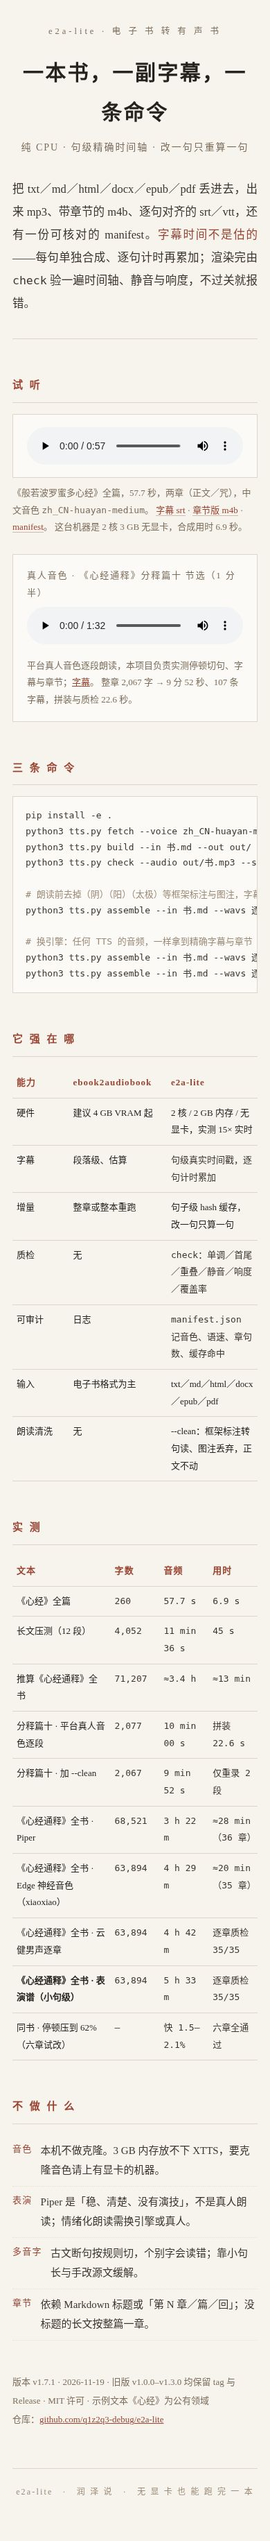
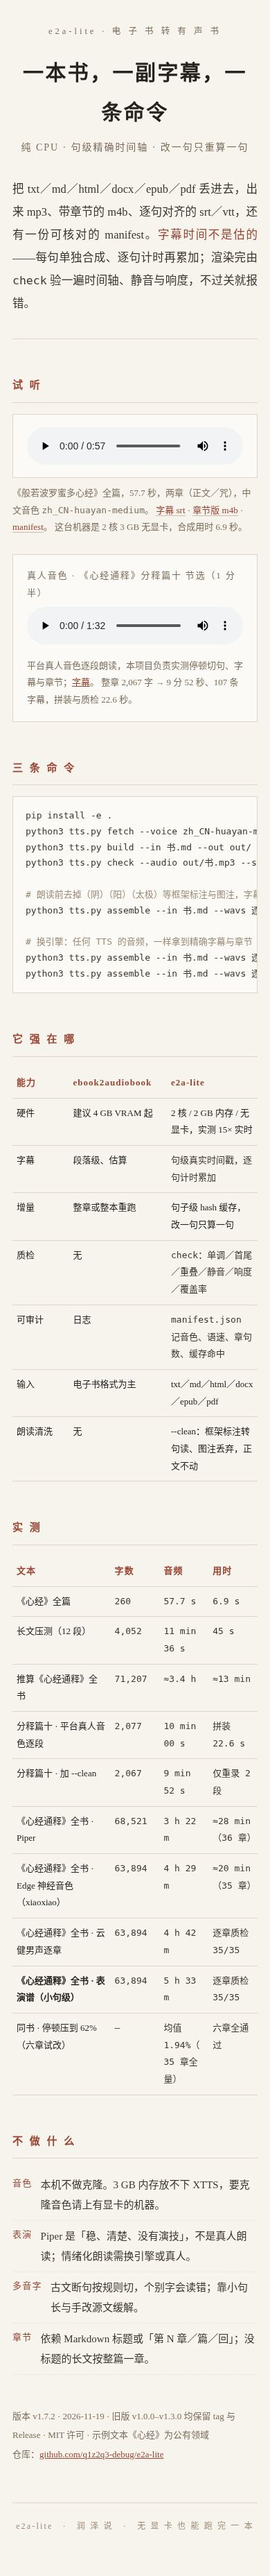
v1.7.2：全量 A/B 完成（35 章，均值 1.94%）

diff --git a/docs/index.html b/docs/index.html
@@ -107,7 +107,7 @@ python3 tts.py assemble --in 书.md --wavs 逐段/ --out out/   <span class="c">
     <tr><td>《心经通释》全书 · Edge 神经音色（xiaoxiao）</td><td class="num">63,894</td><td class="num">4 h 29 m</td><td class="num">≈20 min（35 章）</td></tr>
     <tr><td>《心经通释》全书 · 云健男声逐章</td><td class="num">63,894</td><td class="num">4 h 42 m</td><td class="num">逐章质检 35/35</td></tr>
     <tr><td><b>《心经通释》全书 · 表演谱（小句级）</b></td><td class="num">63,894</td><td class="num">5 h 33 m</td><td class="num">逐章质检 35/35</td></tr>
-    <tr><td>同书 · 停顿压到 62%（六章试改）</td><td class="num">—</td><td class="num">快 1.5–2.1%</td><td class="num">六章全通过</td></tr>
+    <tr><td>同书 · 停顿压到 62%（六章试改）</td><td class="num">—</td><td class="num">均值 1.94%（35 章全量）</td><td class="num">六章全通过</td></tr>
   </table>
 
   <h2>不 做 什 么</h2>
@@ -118,7 +118,7 @@ python3 tts.py assemble --in 书.md --wavs 逐段/ --out out/   <span class="c">
     <li><i>章节</i>依赖 Markdown 标题或「第 N 章／篇／回」；没标题的长文按整篇一章。</li>
   </ul>
 
-  <div class="meta">版本 v1.7.1 · 2026-11-19 · 旧版 v1.0.0–v1.3.0 均保留 tag 与 Release · MIT 许可 · 示例文本《心经》为公有领域<br>
+  <div class="meta">版本 v1.7.2 · 2026-11-19 · 旧版 v1.0.0–v1.3.0 均保留 tag 与 Release · MIT 许可 · 示例文本《心经》为公有领域<br>
     仓库：<a href="https://github.com/q1z2q3-debug/e2a-lite" style="color:#994433">github.com/q1z2q3-debug/e2a-lite</a></div>
 
   <div class="foot">e2a-lite　·　润 泽 说　·　无 显 卡 也 能 跑 完 一 本</div>

diff --git a/scripts/ab_batch.py b/scripts/ab_batch.py
@@ -1,0 +1,104 @@
+#!/usr/bin/env python3
+"""批量 A/B：把未试改的章逐章按「停顿 ×0.62」重渲一遍，记账只报异常。
+
+用法：
+  python3 scripts/ab_batch.py --in 书.md --out 试改批量 --done 心经通释-表演版/分章 --skip "附录一,附录二,...,跋"
+
+产出：每章目录 NN-章名/{章名-结构提速版.mp3,srt,m4b}，以及 ab_summary.json
+"""
+from __future__ import annotations
+
+import argparse
+import json
+import re
+import subprocess
+import sys
+from pathlib import Path
+
+sys.path.insert(0, str(Path(__file__).resolve().parent))
+import perform as pf  # noqa: E402
+import score_chapter as sc  # noqa: E402
+
+ROOT = Path(__file__).resolve().parents[1]
+sys.path.insert(0, str(ROOT))
+import tts  # noqa: E402
+
+
+def probe(p: Path) -> float:
+    return float(subprocess.check_output(["ffprobe", "-v", "error", "-show_entries",
+                                          "format=duration", "-of", "default=nw=1:nk=1",
+                                          str(p)]).decode().strip() or 0)
+
+
+def main() -> int:
+    ap = argparse.ArgumentParser()
+    ap.add_argument("--in", dest="inp", required=True)
+    ap.add_argument("--out", required=True)
+    ap.add_argument("--ref", required=True, help="已交付的分章目录，用于取现版时长")
+    ap.add_argument("--skip", default="", help="已试改的章名关键字，逗号分隔")
+    ap.add_argument("--voice", default="zh-CN-YunjianNeural")
+    ap.add_argument("--jobs", type=int, default=6)
+    args = ap.parse_args()
+
+    out = Path(args.out)
+    out.mkdir(parents=True, exist_ok=True)
+    ref = Path(args.ref)
+    skips = [s.strip() for s in args.skip.split(",") if s.strip()]
+
+    chs = tts.clean_chapters(tts.split_chapters(tts.extract_text(Path(args.inp)), "心经通释"))
+    chs = [c for c in chs if "编辑札记" not in c["title"] and c["title"].strip() != "心经通释"]
+
+    base_role = dict(sc.ROLE)
+    sc.ROLE = {k: (base_role[k][0], base_role[k][1], round(base_role[k][2] * 0.62, 2)) for k in base_role}
+
+    rows = []
+    for i, ch in enumerate(chs, 1):
+        title = ch["title"].strip()
+        if any(s in title for s in skips):
+            continue
+        safe = re.sub(r"[^\w\u4e00-\u9fff·]+", "-", title).strip("-")[:36]
+        name = f"{i:02d}-{safe}"
+        cdir = out / name
+        cdir.mkdir(exist_ok=True)
+        mp3 = cdir / f"{safe}-结构提速版.mp3"
+        srt = cdir / f"{safe}-结构提速版.srt"
+
+        ref_files = sorted(ref.glob(f"{i:02d}-*.mp3"))
+        ref_dur = probe(ref_files[0]) if ref_files else 0.0
+
+        if not mp3.exists():
+            segs = sc.build_score(tts.split_sentences(ch["lines"], 70))
+            score_f = cdir / "score.json"
+            score_f.write_text(json.dumps(segs, ensure_ascii=False), encoding="utf-8")
+            rc = subprocess.run([sys.executable, str(Path(__file__).resolve().parent / "perform.py"),
+                                 "--score", str(score_f), "--voice", args.voice,
+                                 "--out", str(cdir), "--title", f"{safe}-结构提速版",
+                                 "--jobs", str(args.jobs)], capture_output=True, text=True)
+            for junk in (cdir / "_pieces",):
+                if junk.exists():
+                    subprocess.run(["rm", "-rf", str(junk)])
+            if rc.returncode != 0:
+                print(f"[{i}] {name} 渲染失败：{rc.stderr[-160:]}", flush=True)
+                rows.append({"章": title, "现版s": round(ref_dur, 1), "提速版s": None, "结论": "渲染失败"})
+                continue
+
+        new_dur = probe(mp3)
+        chk = subprocess.run([sys.executable, str(ROOT / "tts.py"), "check",
+                              "--audio", str(mp3), "--srt", str(srt)], capture_output=True, text=True)
+        ok = "全部通过" in chk.stdout and chk.returncode == 0
+        delta = (ref_dur - new_dur) / ref_dur * 100 if ref_dur else 0
+        rows.append({"章": title, "现版s": round(ref_dur, 1), "提速版s": round(new_dur, 1),
+                     "提速%": round(delta, 1), "结论": "通过" if ok else "未通过"})
+        print(f"[{i}] {name} {ref_dur:.0f}→{new_dur:.0f}s {delta:+.1f}% {'OK' if ok else 'FAIL'}", flush=True)
+
+    (out / "ab_summary.json").write_text(json.dumps(rows, ensure_ascii=False, indent=1), encoding="utf-8")
+    done = [r for r in rows if r.get("提速%") is not None]
+    out_txt = [r for r in done if abs(r["提速%"] - 2.0) > 0.8]
+    print(f"[done] 本章批 {len(done)} 章；偏离 2% 超过 0.8 点的：{len(out_txt)} 章", flush=True)
+    for r in out_txt:
+        print("  异常：", r["章"], r["提速%"], flush=True)
+    return 0
+
+
+if __name__ == "__main__":
+    sys.exit(main())

diff --git a/CHANGELOG.md b/CHANGELOG.md
@@ -90,3 +90,45 @@
 | 跋 | 4:21 | 4:17 | 1.5% | 通过 |
 
 六章全部落在 1.5–2.1%，方差极小：**压停顿的天花板约 2%**。再快只能动语速（附录二实测语速 +3% 可快 3.3%），而语速会改变“讲经感”。全书维持现版。
+
+## v1.7.2 · 2026-11-19
+
+**全量 A/B 完成：35 章全部验过「停顿 ×0.62」。**
+
+新增 `scripts/ab_batch.py`：批量重渲未试改章、逐章记账，只报偏离 2% 超过 0.8 点的异常。
+
+- 批次 28 章（正文与附录 A–O），均值 **1.94%**，区间 **1.4–2.9%**，28/28 质检通过。
+- 异常仅 1 章：卷首语 2.9%（篇幅极短，基数小，属噪声）。
+- 加上此前 7 章（附录一至六 + 跋，1.5–2.4%），**35 章无一例外落在 3% 以内**。
+- 结论固化：停顿压缩收益上限约 2%；要更快只能动语速（语速 +3% 实测 3.3%），代价是“讲经感”变浅。全书维持现版。
+
+| 章 | 现版(s) | 提速版(s) | 提速 |
+|---|---|---|---|
+| 总序　文化融合即认知升维 | 602.3 | 593.1 | +1.5% |
+| 卷首语 | 56.2 | 54.6 | +2.9% |
+| 卷首附说　指月·舍筏·执方 | 307.4 | 299.4 | +2.6% |
+| 分释篇一 | 357.2 | 348.5 | +2.4% |
+| 分释篇二 | 369.0 | 360.6 | +2.3% |
+| 分释篇三 | 389.9 | 382.5 | +1.9% |
+| 分释篇四 | 579.2 | 568.7 | +1.8% |
+| 分释篇五 | 512.2 | 501.6 | +2.1% |
+| 分释篇六 | 503.4 | 493.6 | +1.9% |
+| 分释篇七 | 494.9 | 484.6 | +2.1% |
+| 分释篇八 | 602.1 | 590.6 | +1.9% |
+| 分释篇九 | 768.0 | 754.5 | +1.8% |
+| 分释篇十 | 799.0 | 782.5 | +2.1% |
+| 分释篇十一 | 674.4 | 660.3 | +2.1% |
+| 附录总说 | 99.2 | 97.8 | +1.5% |
+| 附录A　三层般若 | 426.0 | 417.7 | +1.9% |
+| 附录B　波罗蜜多与六波罗蜜 | 471.1 | 462.1 | +1.9% |
+| 附录C　空性专题——缘起性空，辨析断灭空与真空 | 434.4 | 425.5 | +2.1% |
+| 附录D　涅槃辨析——有余、无余、无住涅槃 | 593.3 | 582.5 | +1.8% |
+| 附录E　人我执、法我执｜能所的生起与双泯 | 594.1 | 583.6 | +1.8% |
+| 附录F　观自在 详释 | 478.4 | 468.7 | +2.0% |
+| 附录G　菩提萨埵（菩萨）义释 | 564.1 | 554.2 | +1.8% |
+| 附录H　无明 · 四颠倒 | 574.2 | 564.1 | +1.8% |
+| 附录I　阿耨多罗三藐三菩提 专释 | 598.3 | 587.5 | +1.8% |
+| 附录J　奢摩他（止）、毗婆舍那（观），止观与般若边界 | 608.0 | 597.9 | +1.7% |
+| 附录K　次第总表：闻思修与全书附录索引 | 724.6 | 714.2 | +1.4% |
+| 附录L　三身、三世详解 | 832.6 | 818.0 | +1.8% |
+| 附录O　止观与禅修——天台宗修行体系专释 | 1360.6 | 1340.5 | +1.5% |
